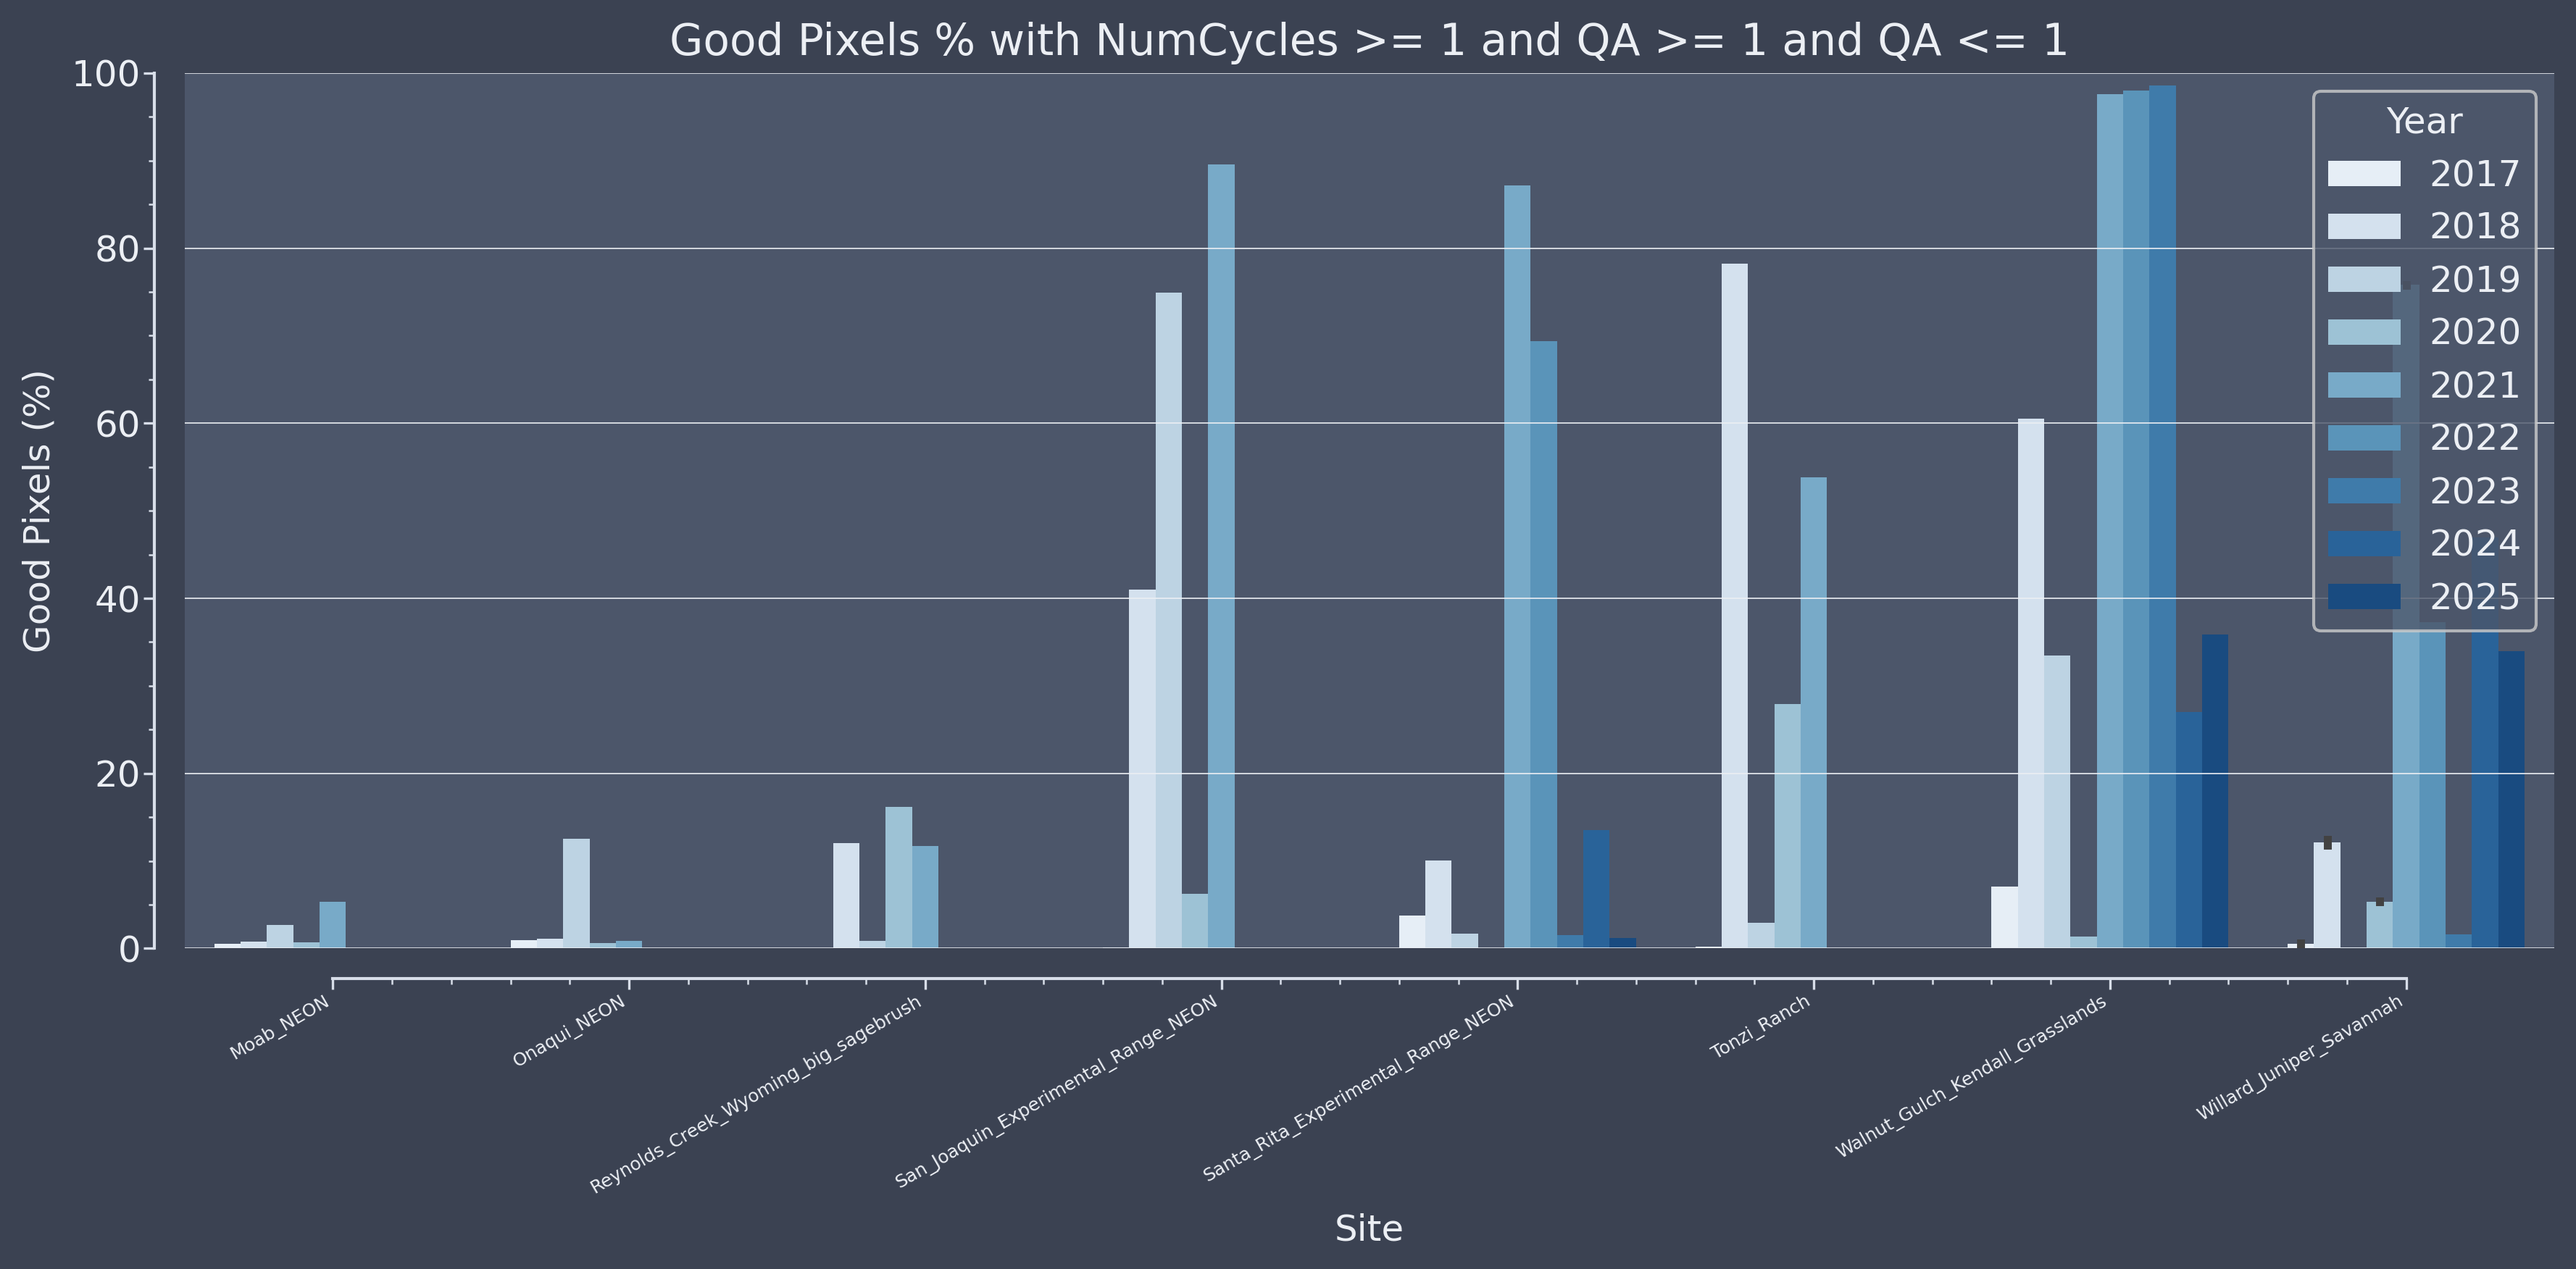
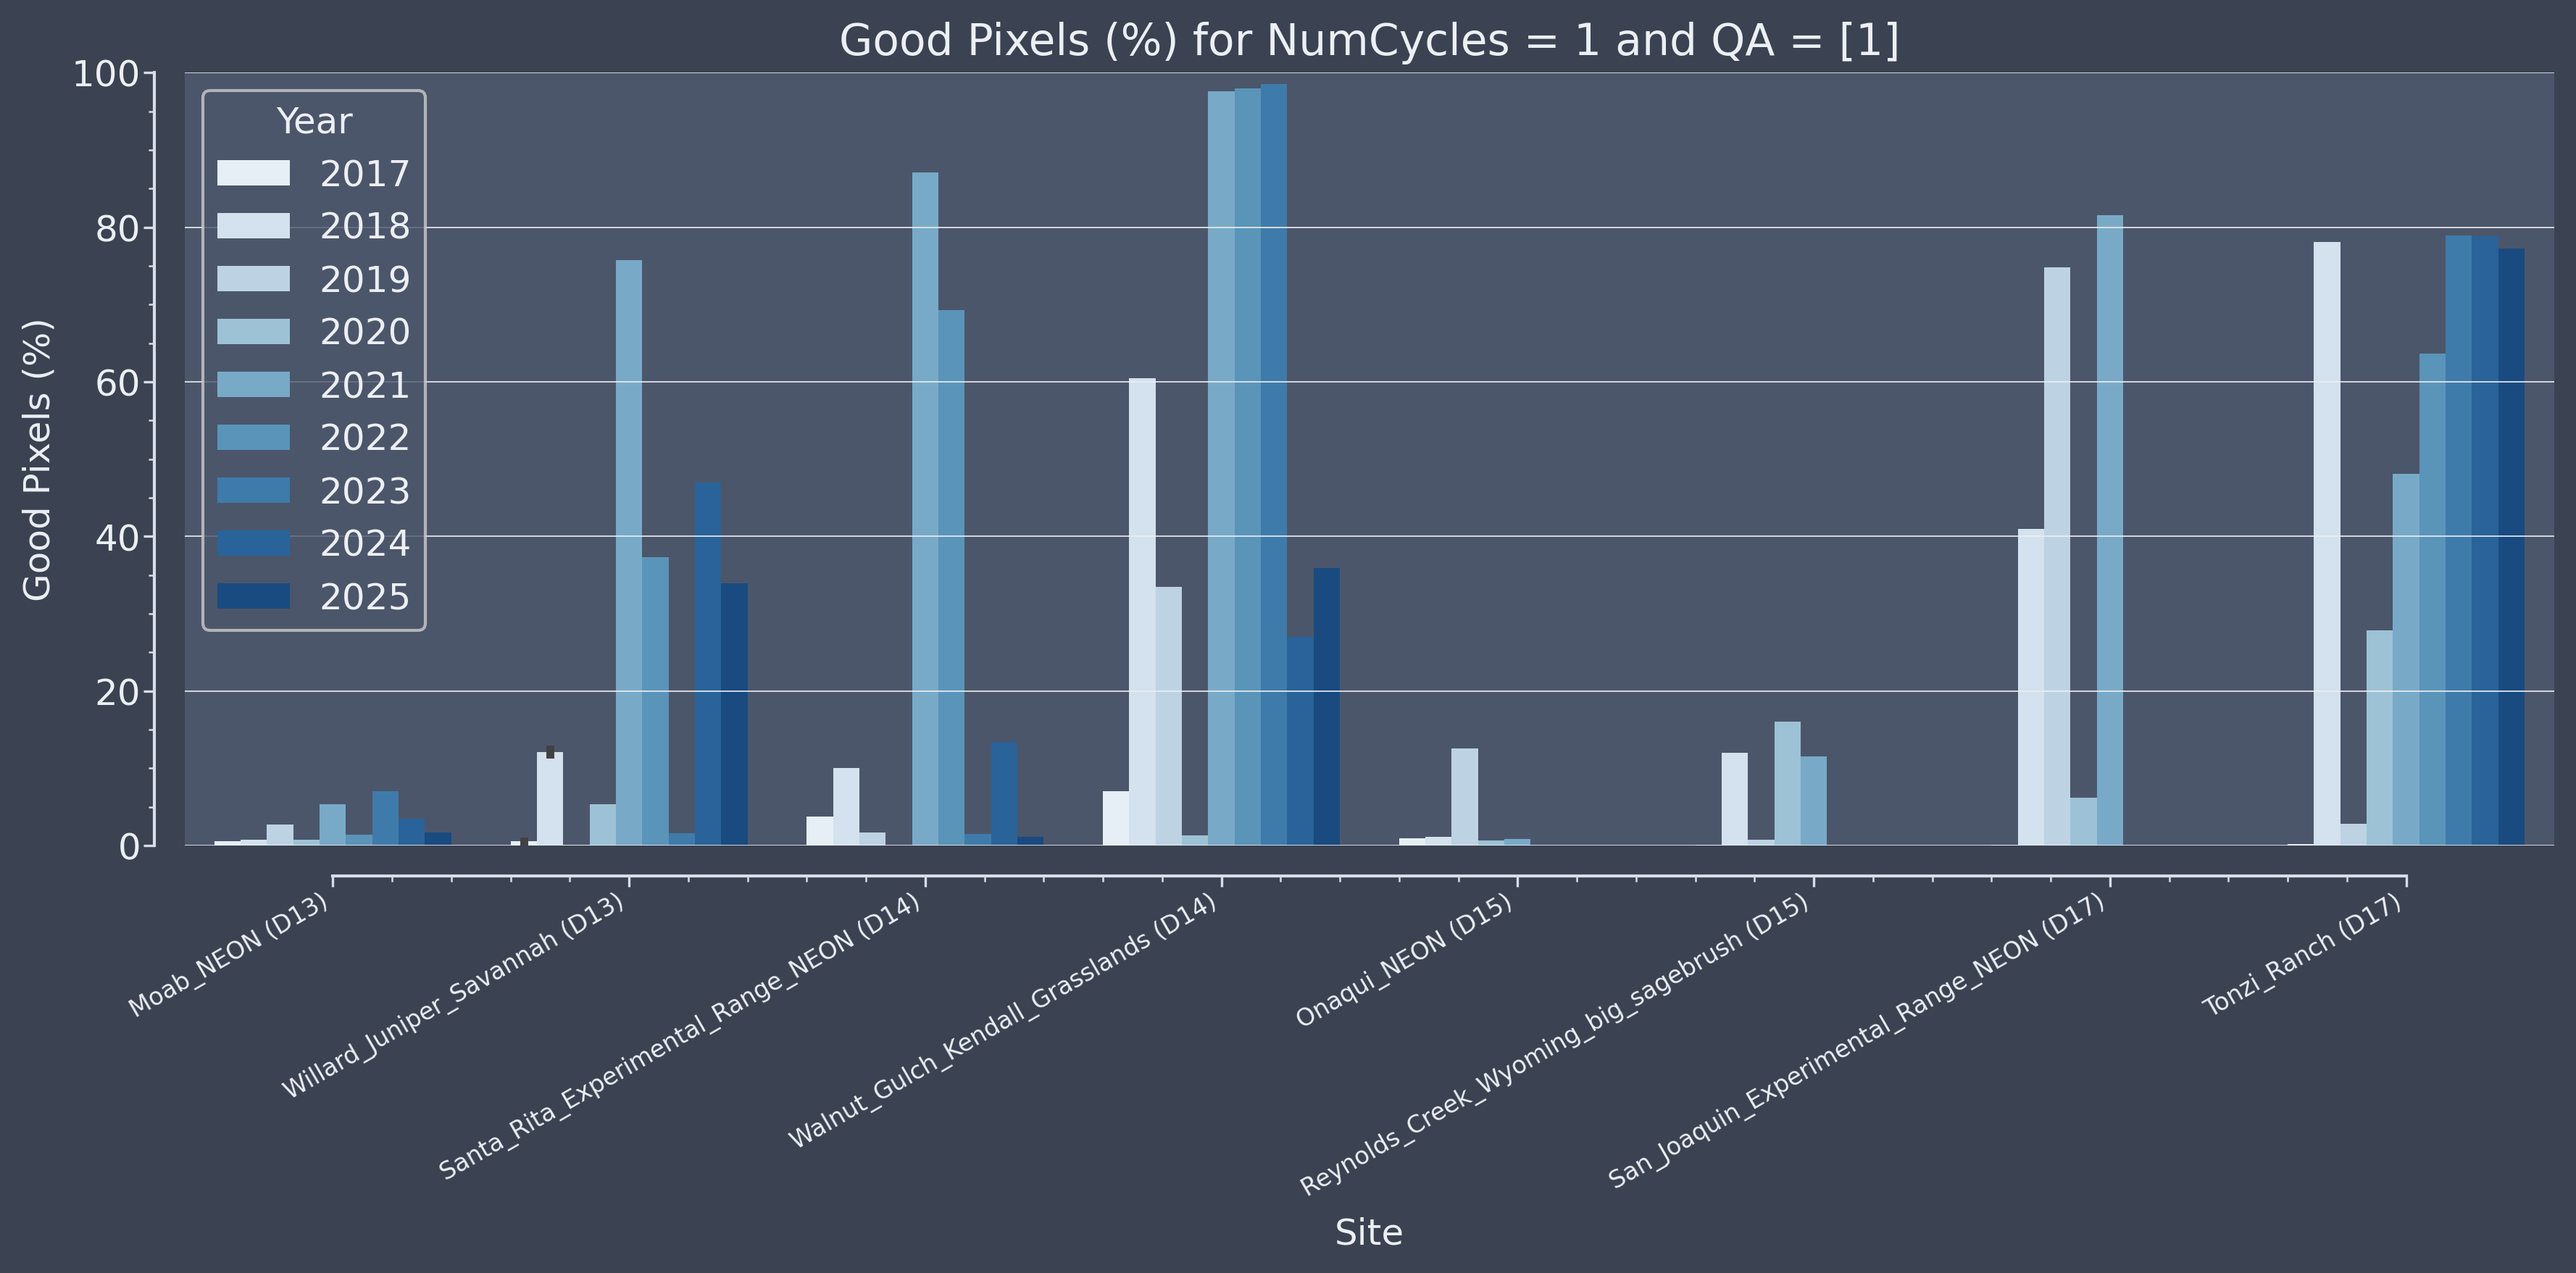
updated pixel qa quality

diff --git a/code/selected_sites_info/01b_generate_site_pixel_qa_quality/run_check_site_pixel_quality.py b/code/selected_sites_info/01b_generate_site_pixel_qa_quality/run_check_site_pixel_quality.py
@@ -18,7 +18,6 @@ from aquarel import load_theme
 import matplotlib as mpl
 
 
-# selected_sites_info/, so the site list resolves the same locally and on the SCC
 SITES_DIR = Path(__file__).resolve().parent.parent
 SITES_CSV = SITES_DIR / 'data' / '01_selected_sites_raw_handgenerated_2.csv'
 
@@ -27,15 +26,19 @@ OUT_FILE_PRE = 'check_site_pixel_quality_results_QA'
 
 
 def get_sites(csv_file):
-    '''Site directory names come from the plsp_raw_id column of the hand-generated site list.'''
+    '''Site directory names come from the plsp_raw_id column, domain from the domain column
+    of the hand-generated site list. Returns a list of (site, domain) tuples.'''
     with open(csv_file, newline='') as f:
-        sites = [row['plsp_raw_id'].strip() for row in csv.DictReader(f)]
-    return sorted({s for s in sites if s})
+        sites = [(row['plsp_raw_id'].strip(), row['neon_domain'].strip()) for row in csv.DictReader(f)]
+    sites.sort(key=lambda s: (int(s[1].lstrip('Dd')), s[0])) # dort by domain ascending then site name ascending
+    return sites
 
 
 def get_nc_files(sites, product_dirs):
+    site_names = [site for site, domain in sites]
+
     dirs = []
-    for site in sites:
+    for site in site_names:
         for product_dir in product_dirs:
             dirs.append(Path('/projectnb/modislc/users/fache/data/planet/') / product_dir / site)
 
@@ -45,10 +48,8 @@ def get_nc_files(sites, product_dirs):
             nc_files.extend(glob.glob(os.path.join(d, '*.nc'), recursive=True))
     nc_files = sorted(set(nc_files))
 
-    # a plsp_raw_id that does not match a PLSP directory name would otherwise
-    # drop the site silently, so name it rather than returning a short list
     found = {Path(p).parent.name for p in nc_files}
-    for site in sites:
+    for site in site_names:
         if site not in found:
             print(f'WARNING: no .nc files for "{site}" in any of {product_dirs}', file=sys.stderr)
 
@@ -70,64 +71,77 @@ def analyze_pixel_quality(path, QA):
         num_cycles_layer = load(ds, 'NumCycles')
         qa_layer = load(ds, 'QA')
 
-        return np.count_nonzero((num_cycles_layer >= 1) & (qa_layer >= 1) & (qa_layer <= QA)), int(num_cycles_layer.size)
+        return np.count_nonzero((num_cycles_layer == 1) & (qa_layer >= 1) & (qa_layer <= QA)), int(num_cycles_layer.size)
 
 
-def run_all_analyze_pixel_quality(nc_files, QA):
+def run_all_analyze_pixel_quality(nc_files, QA, site_domain_map):
     results = []
     for path in tqdm(nc_files):
         good_pixels, total_pixels = analyze_pixel_quality(path, QA)
         percent_good_pixels = 100.0 * good_pixels / total_pixels
+        site = Path(path).parent.name
         results.append({
             'file': path,
-            'site': Path(path).parent.name,
+            'site': site,
+            'neon_domain': site_domain_map.get(site, ''),
             'year': Path(path).stem.split('_')[-1],
             'good_pixels': good_pixels,
             'total_pixels': total_pixels,
             'percent_good_pixels': f'{percent_good_pixels:.3f}%'
         })
-    
+
     return results
 
 
 def save_results_to_csv(results, csv_file):
+    # domain is intentionally excluded from the saved CSV
+    fieldnames = ['file', 'site', 'year', 'good_pixels', 'total_pixels', 'percent_good_pixels']
     with open(csv_file, 'w', newline='') as f:
-        writer = csv.DictWriter(f, fieldnames=['file', 'site', 'year', 'good_pixels', 'total_pixels', 'percent_good_pixels'])
+        writer = csv.DictWriter(f, fieldnames=fieldnames, extrasaction='ignore')
         writer.writeheader()
         writer.writerows(results)
         print(f'saved: {csv_file}')
 
-
-def save_results_to_png(csv_file, png_file, QA):
+def save_results_to_png(csv_file, png_file, QA, site_domain_map):
     df = pd.read_csv(csv_file)
     df['year'] = pd.to_numeric(df['year'])
     df['percent_good_pixels'] = pd.to_numeric(df['percent_good_pixels'].astype(str).str.rstrip('%'))
-    df = df.sort_values(by=['year', 'site'], ascending=True)
+ 
+    # domain isn't in the CSV, so re-attach it here just for labeling
+    df['domain'] = df['site'].map(site_domain_map).fillna('')
+    df['domain_num'] = df['domain'].str.lstrip('Dd').replace('', np.nan).astype(float)
+    df['site_label'] = df.apply(lambda r: f"{r['site']} ({r['domain']})" if r['domain'] else r['site'], axis=1)
+ 
+    df = df.sort_values(by=['domain_num', 'site', 'year'], ascending=True)
     df['year'] = df['year'].astype(int).astype(str)
-
+ 
+    # explicit x-axis order: domain (numeric), then site name
+    x_order = df[['domain_num', 'site', 'site_label']].drop_duplicates().sort_values(by=['domain_num', 'site'])['site_label'].tolist()
+ 
     theme = load_theme('arctic_dark')
     theme.apply()
     mpl.rcParams['font.family'] = 'DejaVu Sans'
-
+ 
     fig, ax = plt.subplots(figsize=(12, 6))
     sns.barplot(
         data=df,
-        x='site',
+        x='site_label',
         y='percent_good_pixels',
         hue='year',
+        order=x_order,
         palette='Blues',
         ax=ax
     )
-
+ 
     ax.set_xlabel('Site')
     ax.set_ylabel('Good Pixels (%)')
     ax.set_ylim(bottom=0, top=100)
-    ax.set_title(f"Good Pixels % with NumCycles >= 1 and QA >= 1 and QA <= {QA}")
-    ax.legend(title='Year', loc='upper right', frameon=True)
-
+    ax.set_title(f"Good Pixels (%) for NumCycles = 1 and QA = [{', '.join(str(x) for x in range(1, QA + 1, 1))}]")
+    ax.legend(title='Year', loc='upper left', frameon=True)
+ 
     theme.apply_transforms()
-    plt.setp(ax.get_xticklabels(), rotation=30, ha='right', fontsize=6)
-
+    plt.setp(ax.get_xticklabels(), rotation=30, ha='right', fontsize=8)
+ 
     fig.tight_layout()
     fig.savefig(png_file, dpi=300, bbox_inches='tight')
     print(f'saved: {png_file}')
@@ -138,18 +152,20 @@ def main(QA_level):
     print(f'{SITES_CSV=}')
     print(f'{len(sites)=}')
     print(f'{sites=}')
+    site_domain_map = dict(sites)
+
     product_dirs = ['PLSP_production_nc', 'PLSP_stage_nc']
     print(f'{len(product_dirs)=}')
 
     nc_files = get_nc_files(sites, product_dirs)
     print(f'{len(nc_files)=}')
-    results = run_all_analyze_pixel_quality(nc_files, QA_level)
+    results = run_all_analyze_pixel_quality(nc_files, QA_level, site_domain_map)
     print(f'{len(results)=}')
 
     csv_file = OUT_DIR / f'{OUT_FILE_PRE}{QA_level}.csv'
     png_file = OUT_DIR / f'{OUT_FILE_PRE}{QA_level}.png'
     save_results_to_csv(results, csv_file)
-    save_results_to_png(csv_file, png_file, QA_level)
+    save_results_to_png(csv_file, png_file, QA_level, site_domain_map)
 
     print('done')
 
